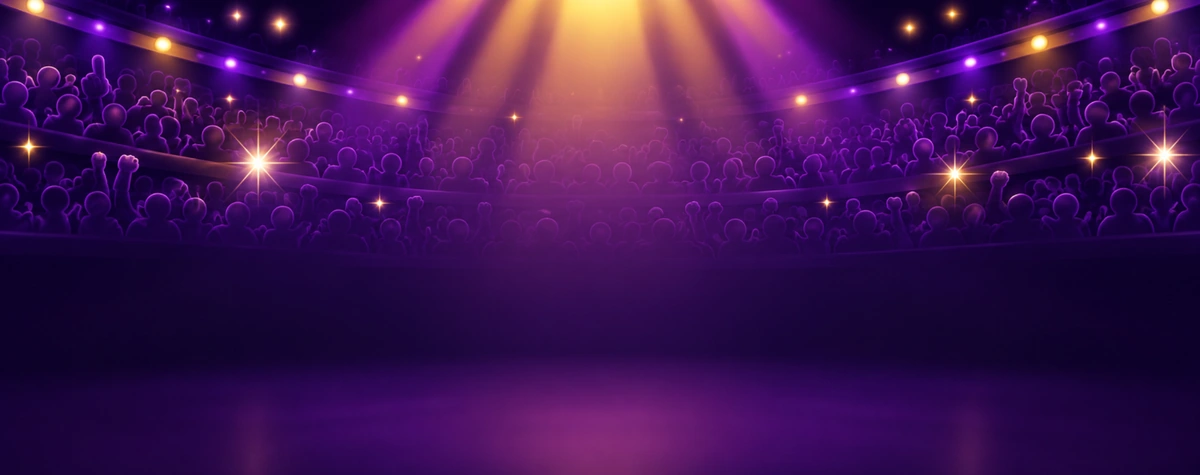
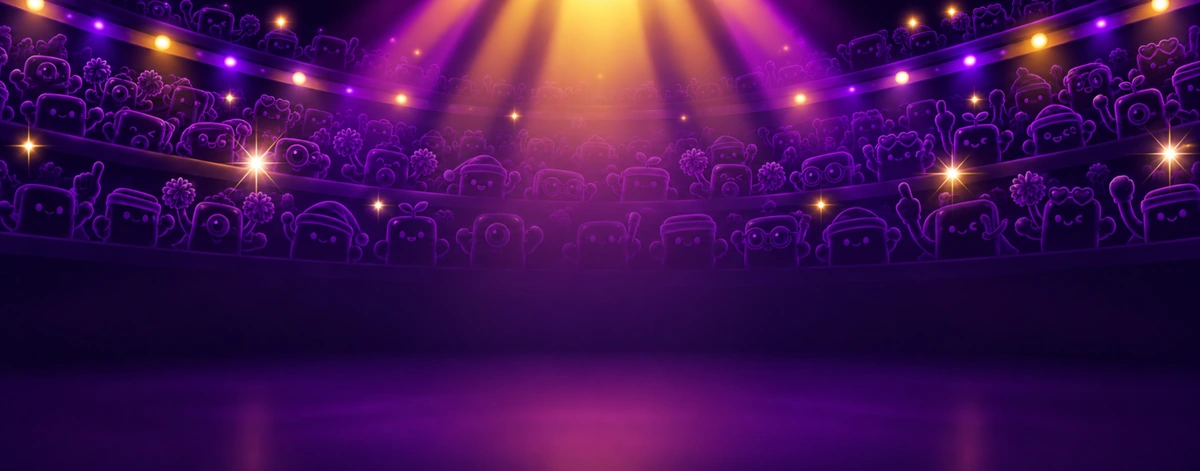
RPS arena wallpaper x3 (founder 10-14, free ChatGPT): the audience is now the Wordocious cast as glowing outline silhouettes (pom-poms, sprout, nightcap, glasses, heart glasses, one eye, headband) — same look as before
(cherry picked from commit b16b3d1cd70649bec406abafc3a8ef43c10583e1)

diff --git a/apps/web/lib/ui-art-28.generated.ts b/apps/web/lib/ui-art-28.generated.ts
@@ -37,7 +37,7 @@ export const UI_ART_28_SIZE: Record<string, readonly [number, number]> = {
   'art-pocket-rps-paper-ring': [287, 318],
   'art-pocket-rps-scissors-ring': [247, 316],
   'art-pocket-rps-hidden-ring': [254, 313],
-  'art-pocket-rps-backdrop': [1200, 475],
+  'art-pocket-rps-backdrop': [1200, 471],
   'art-pocket-ring': [938, 317],
   'art-pocket-rps-hidden': [222, 281],
   'art-pocket-rps-paper': [247, 278],
